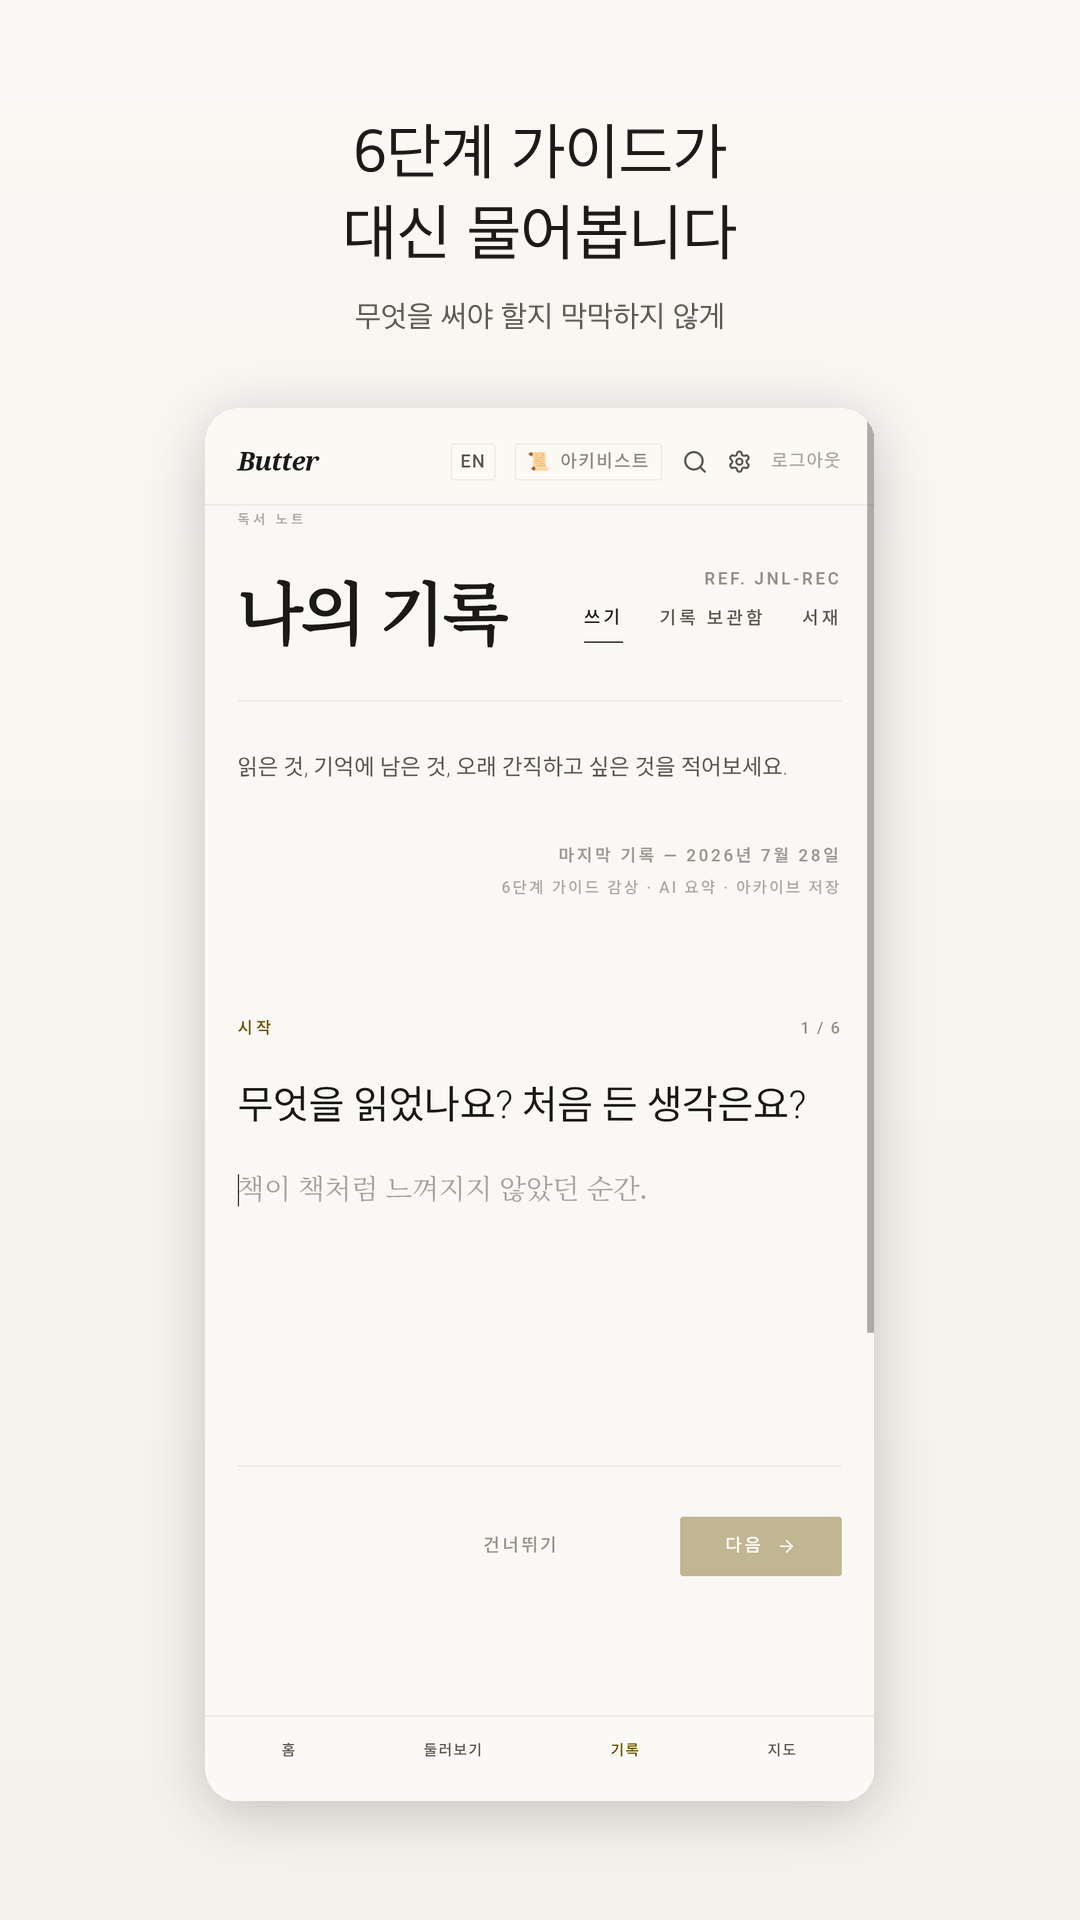
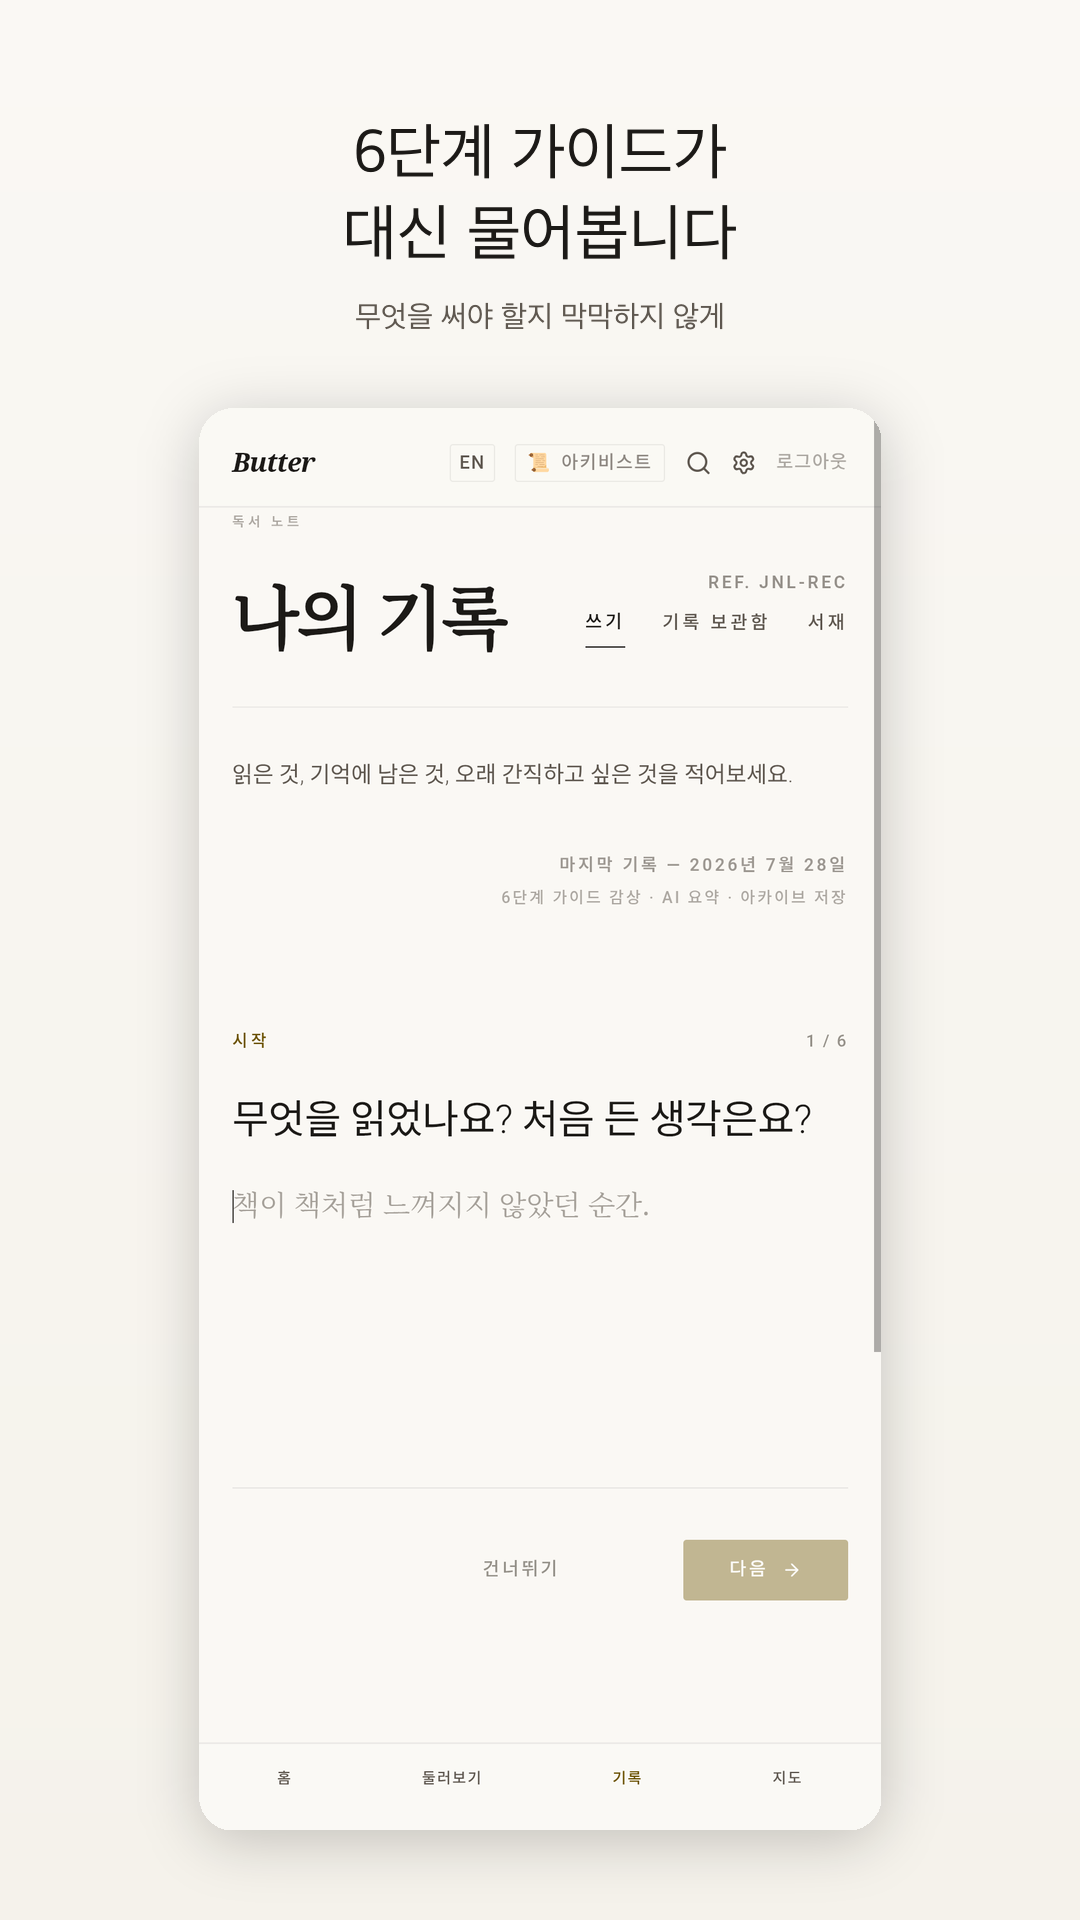
스토어 자료 보완 — 실제 통과한 Voyage 제출본 기준으로 교정
기배포 프로젝트(streaming/voyage)의 실제 제출 자산을 대조해 누락을 찾음.

- iOS 스크린샷 1290×2796(6.7") → 1320×2868(6.9").
  App Store 는 6.9" 를 요구하고 나머지 크기는 이걸로 자동 축소한다.
  실제 통과한 voyage-appstore-*.png 가 1320×2868 이었음.
- 합성 프레임의 폰 가로폭 62% → 72%. 그보다 좁으면 앱 화면 글씨가 안 읽힘
  (통과본과 동일 비율).
- /support 페이지 신설. App Store 의 지원 URL 은 필수이고 심사자가 실제로
  열어보므로 앱 홈이 아니라 문의 수단·응답시간·FAQ 가 있는 전용 페이지가 필요하다.
- 심사 메모를 영문으로 작성. 애플 심사자는 영어로 읽는다.
- App Store "App Privacy" 신고 답안 추가. Play 데이터 보안과 항목 구조가 달라
  별도 매핑이 필요함 (Identifiers→User ID, User Content→Other, tracking=No).

diff --git a/src/components/pages/Support.tsx b/src/components/pages/Support.tsx
@@ -1,0 +1,112 @@
+import { Link } from 'react-router-dom';
+import {
+  LegalPage, Section, P, Sub, List, MailLink,
+  APP_NAME, DEVELOPER_NAME,
+} from '../legal/LegalPage';
+
+// ── 고객 지원 (공개 페이지) ─────────────────────────────────────────────────
+// App Store Connect 의 **지원 URL(Support URL)** 은 필수 항목이고,
+// 심사자가 실제로 열어본다. 앱 홈으로 연결해두면 "지원 정보가 없다"고 지적받을 수 있어
+// 문의 수단·응답 시간·자주 묻는 질문을 담은 전용 페이지를 둔다.
+
+export const Support = () => {
+  return (
+    <LegalPage titleKo="고객 지원" titleEn="Support">
+      <Section title="문의 / Contact">
+        <P>
+          <strong>{APP_NAME}</strong> 를 쓰시다가 궁금한 점이나 문제가 있으면 아래로 연락해 주세요.
+        </P>
+        <List
+          items={[
+            <>문의 이메일: <MailLink subject="Butter 문의" /></>,
+            <>개발자: <strong>{DEVELOPER_NAME}</strong></>,
+          ]}
+        />
+        <P>
+          보내주신 문의는 <strong>영업일 기준 1~2일 이내</strong>에 답변드립니다. 버그 제보, 개선
+          제안, 계정 관련 요청 모두 환영합니다.
+        </P>
+        <Sub>
+          Questions or problems? Email <MailLink subject="Butter support" />. We reply within
+          1–2 business days. Bug reports, feature suggestions, and account requests are all
+          welcome.
+        </Sub>
+      </Section>
+
+      <Section title="자주 묻는 질문 / FAQ">
+        <P>
+          <strong>Q. 내가 쓴 기록을 다른 사람이 볼 수 있나요?</strong>
+          <br />
+          아니요. Butter에는 피드·팔로우·공유 기능이 없습니다. 작성한 기록은 본인만 볼 수 있습니다.
+        </P>
+        <Sub>
+          <strong>Q. Can anyone else see my entries?</strong>
+          <br />
+          No. Butter has no feed, followers, or sharing. Your entries are visible only to you.
+        </Sub>
+
+        <P>
+          <strong>Q. 회원가입은 어떻게 하나요?</strong>
+          <br />
+          별도 가입 절차가 없습니다. 로그인 화면에서 원하는 아이디와 비밀번호를 입력하면 그 계정이
+          자동으로 만들어집니다. 이메일 주소는 받지 않습니다.
+        </P>
+        <Sub>
+          <strong>Q. How do I sign up?</strong>
+          <br />
+          There is no separate sign-up. Enter a username and password on the login screen and the
+          account is created automatically. We do not ask for an email address.
+        </Sub>
+
+        <P>
+          <strong>Q. 비밀번호를 잊어버렸어요.</strong>
+          <br />
+          이메일 주소를 수집하지 않기 때문에 자동 비밀번호 재설정은 제공하지 않습니다.{' '}
+          <MailLink subject="Butter 비밀번호 문의" /> 로 가입 아이디와 함께 연락해 주세요.
+        </P>
+        <Sub>
+          <strong>Q. I forgot my password.</strong>
+          <br />
+          Because we don't collect email addresses, there is no automatic reset. Please contact{' '}
+          <MailLink subject="Butter password help" /> with your username.
+        </Sub>
+
+        <P>
+          <strong>Q. 계정을 삭제하고 싶어요.</strong>
+          <br />
+          앱에서 <strong>설정 → 계정 삭제</strong> 로 즉시 삭제할 수 있습니다. 자세한 내용은{' '}
+          <Link to="/account-deletion" style={{ color: 'var(--color-butter-primary)' }}>
+            계정 및 데이터 삭제
+          </Link>{' '}
+          페이지를 참고하세요.
+        </P>
+        <Sub>
+          <strong>Q. How do I delete my account?</strong>
+          <br />
+          In the app: <strong>Settings → Delete account</strong>. See the{' '}
+          <Link to="/account-deletion" style={{ color: 'var(--color-butter-primary)' }}>
+            account deletion page
+          </Link>{' '}
+          for details.
+        </Sub>
+      </Section>
+
+      <Section title="개인정보 / Privacy">
+        <P>
+          수집하는 정보와 처리 방식은{' '}
+          <Link to="/privacy" style={{ color: 'var(--color-butter-primary)' }}>
+            개인정보처리방침
+          </Link>
+          에 정리되어 있습니다.
+        </P>
+        <Sub>
+          See the{' '}
+          <Link to="/privacy" style={{ color: 'var(--color-butter-primary)' }}>
+            privacy policy
+          </Link>{' '}
+          for what we collect and how it is handled.
+        </Sub>
+      </Section>
+    </LegalPage>
+  );
+};

diff --git a/src/router.tsx b/src/router.tsx
@@ -11,6 +11,7 @@ import { Cartography } from './components/pages/Cartography';
 import { Settings } from './components/pages/Settings';
 import { AccountDeletion } from './components/pages/AccountDeletion';
 import { Privacy } from './components/pages/Privacy';
+import { Support } from './components/pages/Support';
 import { NotFound } from './components/pages/NotFound';
 
 // 네이티브(WebView)에서는 hash 라우터를 쓴다.
@@ -23,6 +24,7 @@ export const router = createRouter([
   // 법적 고지 — 스토어 심사자가 로그인 없이 열어봐야 하므로 공개 라우트
   { path: '/privacy', element: <Privacy /> },
   { path: '/account-deletion', element: <AccountDeletion /> },
+  { path: '/support', element: <Support /> },
   {
     path: '/',
     element: <RootLayout />,

diff --git a/src/hooks/useLocale.ts b/src/hooks/useLocale.ts
@@ -21,6 +21,7 @@ const translations = {
   'footer.privacy': { en: 'Privacy', ko: '개인정보' },
   'footer.contact': { en: 'Contact', ko: '문의' },
   'footer.deletion': { en: 'Delete Account', ko: '계정 삭제' },
+  'footer.support': { en: 'Support', ko: '고객 지원' },
   'footer.tagline': { en: 'For readers who like to think while they read.', ko: '읽으면서 생각하는 사람들을 위해.' },
   'footer.quiet': { en: 'A quiet place on the internet.', ko: '인터넷 속 조용한 공간.' },
 

diff --git a/src/components/legal/LegalPage.tsx b/src/components/legal/LegalPage.tsx
@@ -129,6 +129,12 @@ export const LegalPage = ({ titleKo, titleEn, children }: LegalPageProps) => (
         >
           계정 삭제
         </Link>
+        <Link
+          to="/support"
+          style={{ fontSize: '11px', color: 'var(--color-butter-primary)', letterSpacing: '0.04em' }}
+        >
+          고객 지원
+        </Link>
       </div>
     </div>
   </div>

diff --git a/src/components/layout/Footer.tsx b/src/components/layout/Footer.tsx
@@ -10,6 +10,7 @@ export const Footer = () => {
   const FOOTER_LINKS = [
     { label: t('footer.privacy'), to: '/privacy' },
     { label: t('footer.deletion'), to: '/account-deletion' },
+    { label: t('footer.support'), to: '/support' },
   ];
 
   return (

diff --git a/scripts/make-store-screenshots.py b/scripts/make-store-screenshots.py
@@ -8,7 +8,7 @@
 
 입력 : scripts/screenshot-src/*.png  (기기 원본 캡처)
 출력 : store-assets/screenshots/android/*.png  (1080×1920)
-       store-assets/screenshots/ios-6.7/*.png  (1290×2796)
+       store-assets/screenshots/ios-6.9/*.png  (1320×2868)
 
 재생성: python3 scripts/make-store-screenshots.py
 """
@@ -19,7 +19,7 @@ from PIL import Image, ImageDraw, ImageFont, ImageFilter
 ROOT = os.path.dirname(os.path.dirname(os.path.abspath(__file__)))
 SRC = os.path.join(ROOT, "scripts", "screenshot-src")
 OUT_A = os.path.join(ROOT, "store-assets", "screenshots", "android")
-OUT_I = os.path.join(ROOT, "store-assets", "screenshots", "ios-6.7")
+OUT_I = os.path.join(ROOT, "store-assets", "screenshots", "ios-6.9")
 
 # ── 브랜드 컬러 ───────────────────────────────────────────────────────────
 CREAM = (250, 248, 244)
@@ -117,7 +117,9 @@ def compose(shot_path, title, subtitle, canvas_size):
     avail_h = H - top - int(90 * scale)
     dev_h = avail_h
     dev_w = int(shot.width * (dev_h / shot.height))
-    max_w = int(W * 0.62)
+    # 폰 가로폭은 캔버스의 72% — 이보다 좁으면 앱 화면 글씨가 안 읽힌다.
+    # (실제 통과한 Voyage 스크린샷과 동일 비율)
+    max_w = int(W * 0.72)
     if dev_w > max_w:
         dev_w = max_w
         dev_h = int(shot.height * (dev_w / shot.width))
@@ -147,8 +149,10 @@ def main():
         pa = os.path.join(OUT_A, f"{i:02d}.png")
         a.save(pa, "PNG")
 
-        # iOS 6.7" — 1290×2796
-        b = compose(src, title, sub, (1290, 2796))
+        # iOS 6.9" — 1320×2868 (iPhone 16 Pro Max)
+        # ⚠ App Store Connect 는 6.9" 를 요구하고 나머지 크기는 이걸로 자동 축소한다.
+        #    6.7"(1290×2796) 로 만들면 6.9" 칸을 채우지 못한다.
+        b = compose(src, title, sub, (1320, 2868))
         pb = os.path.join(OUT_I, f"{i:02d}.png")
         b.save(pb, "PNG")
 

diff --git a/store-assets/STORE-LISTING.md b/store-assets/STORE-LISTING.md
@@ -134,21 +134,91 @@ Butter는 읽은 책에 대해 '무엇을 써야 할지' 대신 물어봐 주는
 읽은 문장과 그날의 감정을 함께 남겨보세요. 피드도 팔로우도 없는, 나만 보는 기록장입니다.
 ```
 
-## 지원 URL
+## 지원 URL (필수 — 심사자가 실제로 열어본다)
 ```
-https://butter-black.vercel.app
+https://butter-black.vercel.app/support
+```
+> ⚠ 앱 홈이 아니라 **전용 지원 페이지**를 넣을 것. 문의 수단·응답 시간·FAQ 가 있어야 한다.
+
+## 개인정보처리방침 URL
+```
+https://butter-black.vercel.app/privacy
 ```
 
-## 심사 메모 (App Review Notes)
+## 로그인 정보 (Sign-in required → Yes)
 ```
-· 로그인 계정: 아이디를 처음 입력하면 자동으로 가입됩니다.
-  테스트 계정 — ID: reviewer / PW: ButterReview2026
-  (운영 서버에 실제로 생성해 두었고, 샘플 기록 3건이 들어있습니다)
-· 커뮤니티/공유 기능은 없습니다. 모든 기록은 작성자 본인만 볼 수 있습니다.
-· 계정 삭제: 앱 내 설정 → 계정 삭제, 또는
-  https://butter-black.vercel.app/account-deletion
-· 작성한 기록 요약·회고 질문 생성을 위해 OpenAI API 를 사용합니다.
+ID: reviewer
+PW: ButterReview2026
 ```
+> 운영 서버에 실제로 생성해 두었고 샘플 기록 3건·책장 3권이 들어있다.
+
+## 심사 메모 (App Review Notes) — ⚠ **영문으로 붙여넣을 것**
+> 애플 심사자는 영어로 읽는다. 한글로 넣으면 확인이 늦어지거나 문의가 온다.
+
+```
+Thank you for reviewing Butter.
+
+■ What the app is
+Butter is a private reading journal. Users write about books they read —
+following six guided prompts — and log the passage that stayed with them
+along with how it made them feel.
+
+■ Test account
+    ID: reviewer
+    PW: ButterReview2026
+This account already contains three sample entries and three saved books,
+so the main screens are populated on first launch.
+
+■ Sign-up works without email
+There is no separate sign-up step and we do not collect email addresses.
+Entering any username and password on the login screen creates that account.
+
+■ No social features
+Butter has no feed, followers, likes, comments, or sharing. Nothing a user
+writes is visible to anyone else. All entries are private to their author.
+
+■ Account deletion
+In the app: Settings (gear icon in the header) → Delete account → confirm
+with the password. Deletion is immediate and permanent.
+Also documented at https://butter-black.vercel.app/account-deletion
+
+■ Third-party processing
+To generate reflection prompts and a reading profile, journal text is sent
+to the OpenAI API. This is disclosed in the privacy policy. Book search uses
+the Google Books and Kakao APIs. The app contains no ads and no analytics or
+tracking SDKs, and requests no camera, microphone, or location permissions.
+
+■ Contact
+jungyh870918@gmail.com
+
+Thank you.
+```
+
+## App Privacy 신고 (App Store Connect → App Privacy)
+> ⚠ Play 의 "데이터 보안"과 **항목 이름·구조가 다르다.** 아래대로 답하면 개인정보처리방침과 일치한다.
+
+**1단계 — "Do you collect data from this app?"** → **Yes**
+
+**2단계 — 수집 데이터 유형** (아래만 체크, 나머지 전부 해제)
+
+| 카테고리 | 항목 | 이유 |
+|---|---|---|
+| Identifiers | **User ID** | 계정 식별용 아이디 |
+| User Content | **Other User Content** | 저널 본문·구절·감정 기록·책장 |
+
+**체크하지 않는 것**: Contact Info(이메일 수집 안 함) · Location · Financial Info ·
+Health & Fitness · Contacts · Browsing History · Search History · Purchases ·
+Advertising Data · Sensitive Info · Diagnostics · Usage Data
+
+**3단계 — 항목별 질문 (두 항목 모두 동일)**
+
+| 질문 | 답 |
+|---|---|
+| Used for | **App Functionality** 만 |
+| Linked to the user? | **Yes** (계정에 연결됨) |
+| Used for tracking? | **No** (광고 추적 없음) |
+
+> "Used for tracking" 에 Yes 를 하면 ATT 권한 요청이 필수가 된다. Butter 는 추적하지 않으므로 반드시 No.
 
 ---
 
@@ -217,8 +287,12 @@ reading journal,book log,reading diary,book notes,reading tracker,mood journal,b
 | Play 그래픽 이미지 | 1024×500 | `store-assets/play-feature-graphic-1024x500.png` |
 | Play 스크린샷 | **1080×1920 (9:16)** ×5 | `store-assets/screenshots/android/01~05.png` |
 | App Store 아이콘 | 1024×1024 | `store-assets/appstore-icon-1024.png` |
-| iOS 스크린샷 6.7" | **1290×2796** ×5 | `store-assets/screenshots/ios-6.7/01~05.png` |
+| iOS 스크린샷 6.9" | **1320×2868** ×5 | `store-assets/screenshots/ios-6.9/01~05.png` |
 
 ⚠ Play Console 은 **앱 아이콘 / 그래픽 이미지(가로 배너) / 휴대전화 스크린샷(세로)** 칸이
 각각 다르다. 스크린샷을 그래픽 이미지 칸에 넣으면 계속 "자르기"를 요구한다.
 업로드 후 뜨는 **"용도" 드롭다운에서 "9:16 세로 모드"** 를 정확히 고를 것.
+
+⚠ iOS 는 **6.9"(1320×2868) 한 세트만** 올리면 나머지 기기 크기는 App Store 가 자동으로
+축소해 쓴다. 6.7"(1290×2796) 로 만들면 6.9" 칸을 채우지 못한다.
+(실제 통과한 Voyage 제출본이 1320×2868 이었음)
